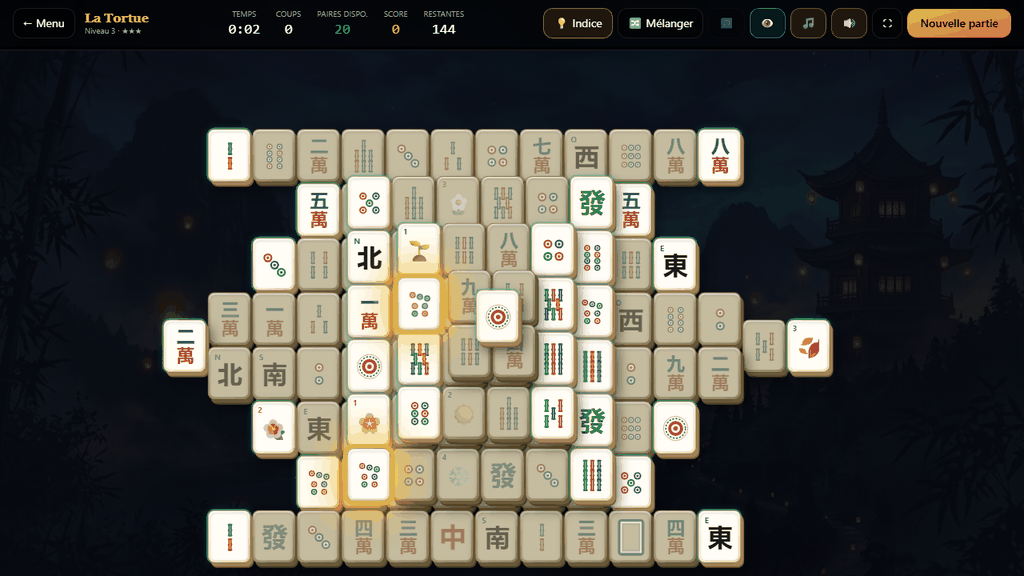
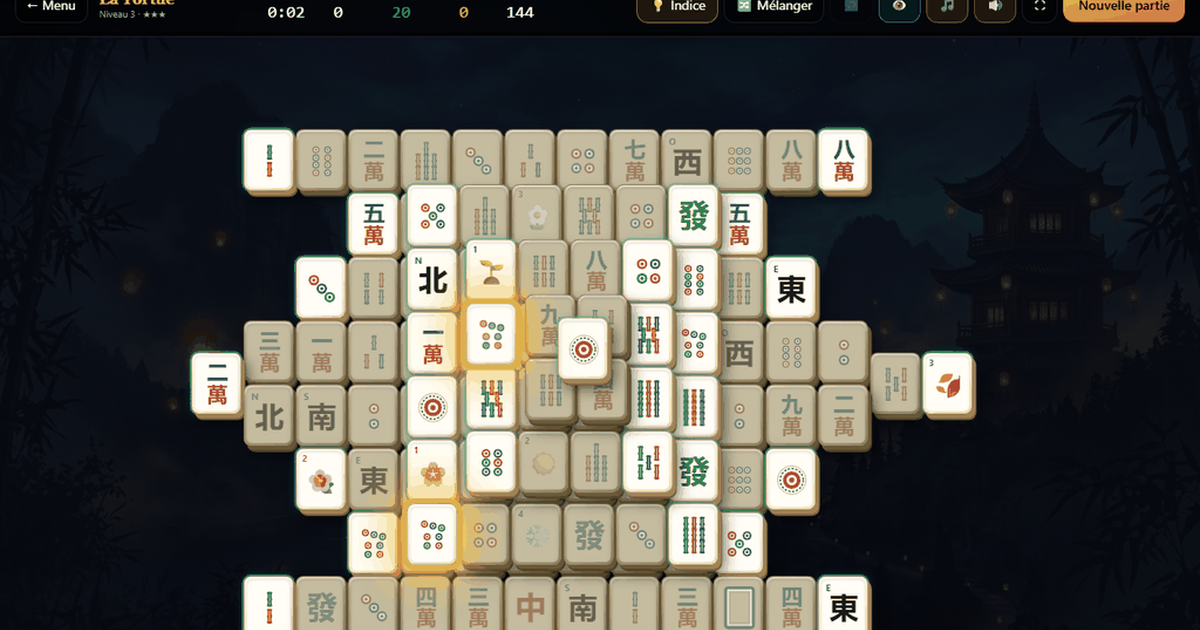
Open Graph : image 1200 x 630 et metadonnees completes

diff --git a/index.html b/index.html
@@ -9,13 +9,17 @@
     <meta property="og:type" content="website" />
     <meta property="og:title" content="Deux par Deux, le solitaire de tuiles" />
     <meta property="og:description" content="5 plateaux toujours résolvables, dont la Tortue à 144 tuiles. Indices, mélange, annulation et musique d'ambiance. Direct dans le navigateur." />
-    <meta property="og:image" content="https://games.hylst.fr/deuxpardeux/og-image.png" />
+    <meta property="og:image" content="https://games.hylst.fr/deuxpardeux/og-image.png?v=2" />
+    <meta property="og:image:type" content="image/png" />
+    <meta property="og:image:width" content="1200" />
+    <meta property="og:image:height" content="630" />
+    <meta property="og:image:alt" content="Deux par Deux, le solitaire de tuiles" />
     <meta property="og:url" content="https://games.hylst.fr/deuxpardeux/" />
     <meta property="og:site_name" content="Hylst.Games" />
     <meta name="twitter:card" content="summary_large_image" />
     <meta name="twitter:title" content="Deux par Deux, le solitaire de tuiles" />
     <meta name="twitter:description" content="5 plateaux toujours résolvables, dont la Tortue à 144 tuiles. Indices, mélange, annulation." />
-    <meta name="twitter:image" content="https://games.hylst.fr/deuxpardeux/og-image.png" />
+    <meta name="twitter:image" content="https://games.hylst.fr/deuxpardeux/og-image.png?v=2" />
     <meta name="robots" content="index, follow" />
     <meta name="theme-color" content="#080a12" />
     <link rel="canonical" href="https://games.hylst.fr/deuxpardeux/" />
